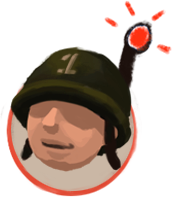
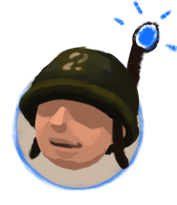
updatejt graficzkuf

diff --git a/resources/qml/scenes/gameplay/Esbek.qml b/resources/qml/scenes/gameplay/Esbek.qml
@@ -8,18 +8,36 @@ Item {
 
     property QtObject esbekModel
 
+    readonly property int moveX: esbekModel ? esbekModel.moveX : 0
+    property bool flipImage: false
+
     width: MapConstants.TILE_SIZE
     height: MapConstants.TILE_SIZE
 
     x: esbekModel.posX
     y: esbekModel.posY
 
-    Image {
-        source: "qrc:/images/map/SBK_probka1.png"
+    onMoveXChanged: {
+        if (moveX != 0) {
+            flipImage = moveX == 1
+        }
+    }
 
+    Image {
+        id: image
         anchors {
             centerIn: parent
         }
+
+        transform:
+            Rotation {
+            origin.x: image.width/2;
+            origin.y: image.height/2;
+            axis.x:0; axis.y:1; axis.z:0
+            angle: flipImage ? 180 : 0
+        }
+
+        source: getAntenaBoyImage()
     }
 
     RangeCircle {
@@ -44,5 +62,18 @@ Item {
         size: esbekModel.killRadius
         borderColor: "red"
         sonarDelay: 0
+    }
+
+    function getAntenaBoyImage() {
+        var a = 70 // do manipulowania szybkoscia przebierania nozkami :)
+        var modulo = 1 + (esbekModel.posX + esbekModel.posY) % a
+        var img_nr = 1
+        if (modulo < a/3) {
+            img_nr = 2
+        } else if (modulo < (2*a/3)) {
+            img_nr = 3
+        }
+
+        return "qrc:/images/map/SBK_" + img_nr + ".png"
     }
 }

diff --git a/resources/qml/scenes/gameplay/map/Tile.qml b/resources/qml/scenes/gameplay/map/Tile.qml
@@ -87,10 +87,13 @@ Item {
     function getRandomHouseImage() {
         var allHouses = [
             "qrc:/images/map/Domki_1DoPoprawki.png",
-            "qrc:/images/map/Domki_2DoPoprawki.png",
-            "" // dodac jakies inne obazki domkow
+            "qrc:/images/map/Domki_2DoPoprawki.png" // dodac jakies inne obazki domkow
         ]
+        var others = [
+             "qrc:/images/map/gruz.png",
+             "qrc:/images/map/beczki.png",
+             ""]
         var rand = Math.floor((Math.random() * allHouses.length))
-        return allHouses[rand]
+        return Math.random() < 0.7 ? allHouses[rand] : others[rand]
     }
 }

diff --git a/resources/qml/scenes/gameplay/UI/Head.qml b/resources/qml/scenes/gameplay/UI/Head.qml
@@ -23,18 +23,6 @@ Item {
         }
 
         source: getImageSource(boyId, isSelected)
-        visible: !isSelected
-    }
-
-    BrightnessContrast {
-        anchors {
-            fill: headImage
-        }
-        source: headImage
-        brightness: 0.7
-        contrast: 0.8
-        cached: true
-        visible: isSelected
     }
 
     SequentialAnimation {
@@ -48,6 +36,6 @@ Item {
     }
 
     function getImageSource(boyId) {
-        return "qrc:/images/ui/Glowa_" + boyId + "_niewybrana.png"
+        return "qrc:/images/ui/Glowa_" + boyId + "_" + (isSelected ? "wybrana" : "niewybrana") + ".png"
     }
 }
